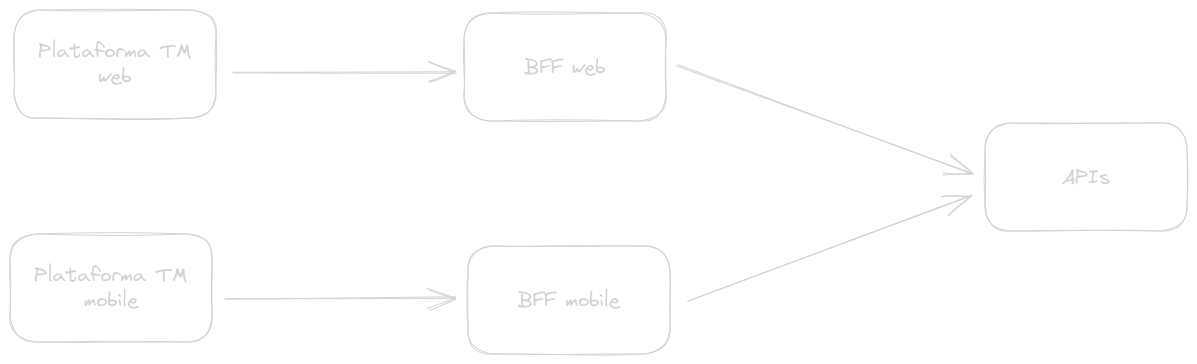
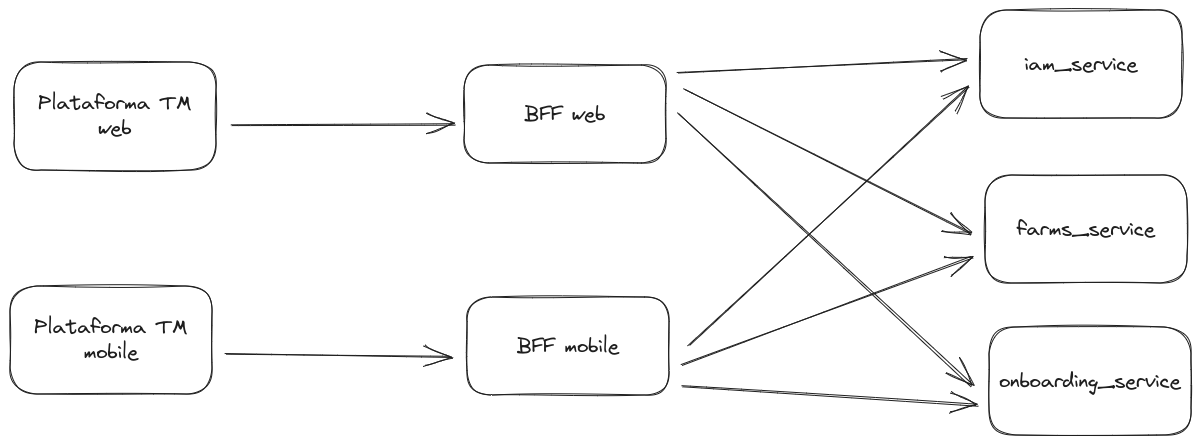
PYTHON É MUITO MELIÓ

diff --git a/index.md b/index.md
@@ -14,7 +14,6 @@ img[alt~="center"] {
   margin: 0 auto;
 }
 </style>
-<!-- class: invert -->
 
 # 🤝 Simplificando o frontend com BFF
 
@@ -38,7 +37,7 @@ img[alt~="center"] {
 
 - Como conhecemos:
 
-![](images/abordagem-tradicional.png)
+![](images/gateway.png)
 
 ---
 
